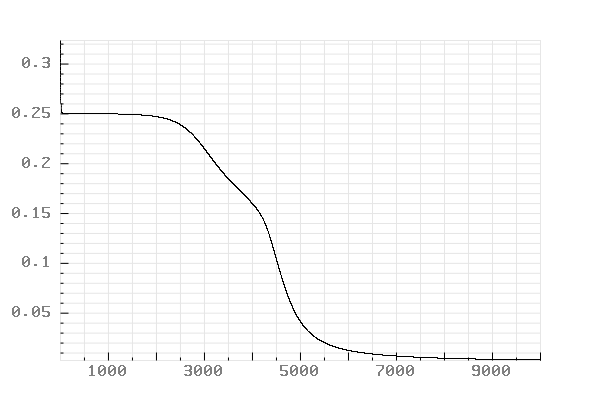
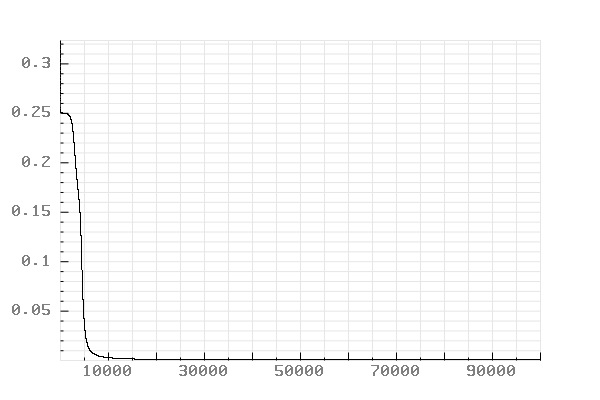
modified XOR test

diff --git a/NN-Library/NN-Library.cpp b/NN-Library/NN-Library.cpp
@@ -222,7 +222,7 @@ void XOR()
 	nn->AddLayer(cLayer2);
 
 
-	const int iterations = 10000;
+	const int iterations = 100000;
 	std::vector<float> outputs;
 	float cost = 0.0f;
 	std::vector<double> outputCosts(iterations);
@@ -279,7 +279,7 @@ void XOR()
 
 int main()
 {
-	//XOR();
+	XOR();
 
 	//SineWave();
 
@@ -287,7 +287,7 @@ int main()
 
 	float* rgb_image = stbi_loadf("testImage.png", &width, &height, &bpp, 3);*/
 
-	auto dataset = mnist::read_dataset();
+	/*auto dataset = mnist::read_dataset();
 
 	std::cout << "Number of training images = " << dataset.training_images.size() << std::endl;
 	std::cout << "Number of training labels = " << dataset.training_labels.size() << std::endl;
@@ -327,6 +327,6 @@ int main()
 			std::cout << outputs[heightIndex * 5 + widthIndex] << ", ";
 		}
 		std::cout << "\n";
-	}
+	}*/
 	return 0;
 }
